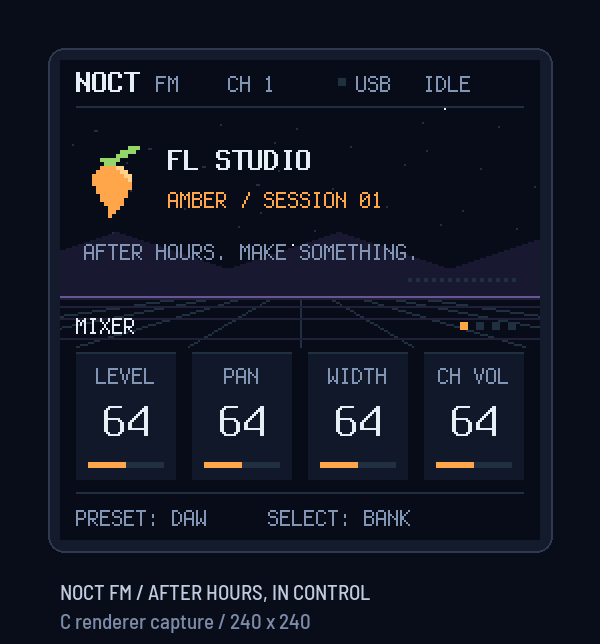
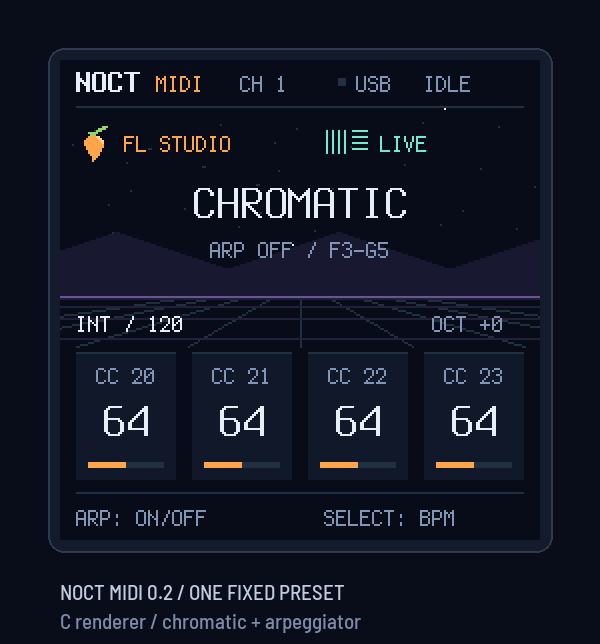
Document NOCT MIDI 0.2 controls and update installer preview

diff --git a/site/index.html b/site/index.html
@@ -13,12 +13,12 @@
   <header><a class="brand" href="./">NOCT<span>FM</span></a><span class="eyebrow">AFTER HOURS / IN CONTROL</span><a href="https://github.com/Joolo09/noct-fm">GitHub ↗</a></header>
   <main>
     <section class="intro">
-      <div><p class="eyebrow accent">M-VAVE FM-1 / CUSTOM FIRMWARE</p><h1>Твоя музыка.<br>Ночная смена.</h1><p class="lead">FL Studio и Ableton Live.<br>Пиксельный мир на твоём FM-1.</p><div class="chips"><span>● FL STUDIO</span><span>▥ ABLETON LIVE</span></div><p class="muted">Установка по USB из Chrome или Edge на компьютере.<br>Без отдельной программы-загрузчика.</p></div>
+      <div><p class="eyebrow accent">M-VAVE FM-1 / MIDI 0.2.0</p><h1>Твоя музыка.<br>Ночная смена.</h1><p class="lead">Один MIDI-пресет.<br>FL Studio и Ableton Live.</p><div class="chips"><span>● FL STUDIO</span><span>▥ ABLETON LIVE</span></div><p class="muted">Четыре постоянных CC. Хроматическая клавиатура.<br>Арпеджиатор с собственным темпом.</p></div>
       <figure><img src="./noct-fm.gif" width="600" height="644" alt="Пиксельный интерфейс NOCT FM: янтарный FL Studio и мятный Ableton Live"><figcaption>240 × 240 / REAL FIRMWARE RENDER</figcaption></figure>
     </section>
     <section class="installer" aria-labelledby="install-title">
       <div class="section-head"><div><p class="eyebrow accent">CONNECT / VERIFY / INSTALL</p><h2 id="install-title">На орбиту — по USB.</h2></div><span class="badge">EXPERIMENTAL ALPHA</span></div>
-      <p class="notice">Сборка ещё не проверена на физическом FM-1. Сохрани свои пресеты и подготовь официальный M-UPGRADE для восстановления. Во время записи не отключай USB. Первая установка заменяет штатную прошивку.</p>
+      <p class="notice">В 0.2.0 убраны USER-банки, смена MIDI-канала ручками и автосохранение во flash. После обновления скачай и переустанови DAW-скрипты ниже: единая карта теперь CC20–23. Обновление проверено в симуляторе, аппаратная проверка ещё предстоит. Сохрани данные; во время записи не отключай USB.</p>
       <p id="compatibility" class="muted"></p>
       <div class="steps">
         <article><span class="number">01</span><h3>Подключи FM-1</h3><p>USB-кабель с передачей данных. Закрой FL Studio, Live и другие приложения, использующие MIDI-порт.</p><button id="connect">Подключить по USB</button><label for="ports" class="small">MIDI-порт</label><select id="ports" disabled><option>Сначала подключи устройство</option></select><p id="device" class="small">Устройство не подключено</p></article>
@@ -27,7 +27,7 @@
       </div>
       <div class="status-panel"><div class="status-line"><p id="status" role="status" aria-live="polite">Готов к подключению.</p><span id="percent">0%</span></div><progress id="progress" max="100" value="0" aria-label="Ход установки"></progress><p id="error" role="alert"></p><details><summary>Журнал установки</summary><pre id="log">NOCT FM installer ready.</pre><button id="save-log" class="secondary">Скачать журнал</button></details></div>
     </section>
-    <section class="after"><div><p class="eyebrow accent">AFTER INSTALL</p><h2>Теперь открой свою DAW.</h2><p>PRESETS на главном экране выбирает FL Studio или Ableton. Установи соответствующий скрипт, чтобы ручки управляли параметрами, а экран получал обратную связь.</p><p><a class="text-link" href="./downloads/NOCT-DAW-scripts.zip" download>Скачать скрипты FL Studio и Ableton ↓</a></p><a class="text-link" href="https://github.com/Joolo09/noct-fm#подключение-daw">Инструкция подключения ↗</a></div><div><h3>Нужно вернуться назад?</h3><p>Используй официальный M-UPGRADE и инструкцию восстановления для своей версии FM-1. Этот установщик принимает только сборку NOCT из своего манифеста.</p><a class="text-link" href="https://www.m-vave.com/product?id=fm-1" target="_blank" rel="noopener">Загрузки M-VAVE ↗</a></div></section>
+    <section class="after"><div><p class="eyebrow accent">AFTER INSTALL</p><h2>Теперь открой свою DAW.</h2><p>Один пресет для обеих DAW: ноты на канале 1, ручки CC20–23 на канале 16. Установи свежий скрипт. PRESETS больше не меняет маршрут. ARP включается кнопкой, SELECT задаёт темп. USB audio в MIDI-сборке отключён — проверь выбор MIDI-порта после обновления.</p><p><a class="text-link" href="./downloads/NOCT-DAW-scripts.zip" download>Скачать скрипты FL Studio и Ableton ↓</a></p><a class="text-link" href="https://github.com/Joolo09/noct-fm#подключение-daw">Инструкция подключения ↗</a></div><div><h3>Нужно вернуться назад?</h3><p>Используй официальный M-UPGRADE и инструкцию восстановления для своей версии FM-1. Этот установщик принимает только сборку NOCT из своего манифеста.</p><a class="text-link" href="https://www.m-vave.com/product?id=fm-1" target="_blank" rel="noopener">Загрузки M-VAVE ↗</a></div></section>
   </main>
   <footer><span>NOCT FM / MADE FOR THE AFTER HOURS</span><span>На базе CTL-1, fm1-base и felucca-bsp · <a href="./LICENSE">MPL-2.0</a></span></footer>
   <script type="module" src="./installer.js"></script>

diff --git a/tools/make-midi-preview.py b/tools/make-midi-preview.py
@@ -1,0 +1,32 @@
+"""Capture NOCT 0.2's actual MIDI UI and arp modifier in the host simulator."""
+import os
+import subprocess
+from pathlib import Path
+from PIL import Image,ImageDraw,ImageFont
+root=Path(__file__).resolve().parents[1]
+out=root/'preview';out.mkdir(exist_ok=True)
+exe=root/'firmware/app/build/host'/('noct-usb_host.exe' if os.name=='nt' else 'noct-usb_host')
+commands=['wait 800']
+for i in range(70):
+    if i==10:commands+=['key 7 down']
+    if 12<=i<24:commands+=['spin K1 2','spin K2 -1','spin K3 1']
+    if i==26:commands+=['key 7 up','tap ARP','key 0 down','key 4 down','key 7 down']
+    if i==45:commands+=['key 0 up','key 4 up','key 7 up','press ARP']
+    if i==50:commands+=['spin K2 1','spin K3 1']
+    if i==60:commands+=['release ARP']
+    commands+=['wait 80',f'shot anim-midi-{i:02}.png']
+script=out/'animation-midi.ctl';script.write_text('\n'.join(commands)+'\n')
+subprocess.run([str(exe),str(script),str(out)],check=True)
+frames=[]
+font=ImageFont.truetype(str(root/'upstream/base/assets/fonts/BarlowSemiCondensed-Medium.ttf'),21)
+for i in range(70):
+    canvas=Image.new('RGB',(600,644),'#090c19');draw=ImageDraw.Draw(canvas)
+    draw.rounded_rectangle((48,48,552,552),radius=16,fill='#141b2c',outline='#30394e',width=2)
+    screen=Image.open(out/f'anim-midi-{i:02}.png').convert('RGB')
+    canvas.paste(screen.resize((480,480),Image.Resampling.NEAREST),(60,60))
+    draw.text((60,579),'NOCT MIDI 0.2 / ONE FIXED PRESET',font=font,fill='#c1cbe0')
+    draw.text((60,608),'C renderer / chromatic + arpeggiator',font=font,fill='#7c8ba7')
+    frames.append(canvas)
+frames[0].save(out/'noct-fm.gif',save_all=True,append_images=frames[1:],duration=80,loop=0,optimize=False)
+frames[0].save(root/'site/still.png')
+(root/'site/noct-fm.gif').write_bytes((out/'noct-fm.gif').read_bytes())

diff --git a/firmware/app/midi_ui.c b/firmware/app/midi_ui.c
@@ -32,7 +32,11 @@ static void play(uint32_t st,uint32_t a,uint32_t b){ctl_send(pkt3(st|proj.chan,a
 static void noct_control(uint32_t a,uint32_t b){ctl_send(pkt3(0xBFu,a,b),TO_USB|TO_BLE);}
 static void say(const char *a,const char *b)
 {
-    char *p=put_s(ui.message,a);if(b){p=put_s(p," ");put_s(p,b);}
+    uint32_t n=0;
+    while(a && *a && n<sizeof ui.message-1u)ui.message[n++]=*a++;
+    if(b && n<sizeof ui.message-1u)ui.message[n++]=' ';
+    while(b && *b && n<sizeof ui.message-1u)ui.message[n++]=*b++;
+    ui.message[n]=0;
     ui.msg_until=plat_ms()+1500u;
     if(ann_on())ann_say(ui.message,0,ANN_NOW);
 }
@@ -123,7 +127,7 @@ static void save_if_idle(void)
 {
     if(ui.save_done||!(ui.btn>>B_SAVE&1u)||plat_ms()-ui.save_t<1000u)return;
     ui.save_done=1;
-    if(ui.down||ui.playing||arp_engine.count||ui.sustain){say("RELEASE KEYS", "STOP BEFORE SAVE");return;}
+    if(ui.down||ui.playing||arp_engine.count||ui.sustain||plat_ms()<ui.touch_until){say("RELEASE KEYS", "STOP BEFORE SAVE");return;}
     if(project_save()==0){ui.dirty=0;ui.saves++;say("SETTINGS SAVED",0);}
     else say("FLASH SAVE FAILED",0);
 }

diff --git a/README.md b/README.md
@@ -1,113 +1,98 @@
-# NOCT FM
+# NOCT MIDI 0.2.0
 
-**AFTER HOURS / IN CONTROL** — MIDI-прошивка для **M-VAVE FM-1**, с приоритетом FL Studio и Ableton Live.
+**AFTER HOURS / IN CONTROL** — MIDI-контроллер для **M-VAVE FM-1** с одним постоянным пресетом для FL Studio и Ableton Live.
 
-**[Веб-установщик → joolo09.github.io/noct-fm](https://joolo09.github.io/noct-fm/)** — подключение по USB из Chrome/Edge, загрузка сборки, проверка SHA-256 и запись через Web MIDI SysEx. Скрипты DAW можно скачать там же.
+**[Веб-установщик → joolo09.github.io/noct-fm](https://joolo09.github.io/noct-fm/)**
 
-Ночная палитра, настоящий пиксельный шрифт Terminus, звёзды, движущаяся сетка горизонта и пиксельные логотипы DAW. FL Studio — янтарный; Ableton Live — мятный. PRESETS меняет профиль и запускает короткую анимацию. Экран рисуется C-кодом на родном разрешении 240×240, без загрузки картинок и выделения памяти в анимации.
+![Интерфейс настоящего C-рендерера](preview/noct-fm.gif)
 
-![Анимация настоящего C-рендерера](preview/noct-fm.gif)
+## Что изменилось в 0.2
 
-## Текущее состояние
+Предыдущая версия позволяла ручками менять канал клавиатуры, DAW-профиль, банк, номера CC и назначение клавиш. Это могло выглядеть как прекращение работы MIDI. Арпеджиатор по умолчанию ждал внешний clock. Движения ручек также приводили к автосохранению во flash, при котором платформа приостанавливает обработку.
 
-Это **инженерная alpha**. **USB-сборка `.fwsc` успешно собрана в GitHub Actions** специализированным компилятором JieLi. Пакет — 610108 байт, identity `FM-1_9062500`; образ приложения 374756 байт, RAM 30276/98304, pool 167972/344064. Сборочные проверки размера памяти, регистров и загрузчика проходят. Bluetooth в опубликованной USB-сборке отсутствует. Проверки на физическом FM-1 и внутри установленных FL Studio / Live не проводились. Симуляция USB/Bluetooth не проверяет реальные USB-дескрипторы, радиостек, задержку и flash-память устройства.
+Теперь доступен **один MIDI-пресет**: ноты всегда на канале 1, ручки CC20–23 на канале 16. USER-банков, смены профиля, Program Change и изменения канала с панели нет. Все клавиши остаются музыкальными при нажатии любой кнопки. Хроматическая раскладка соответствует физическим полутонам F3–G5, без аккордов на чёрных клавишах.
 
-Исходники установщика находятся в `site/`. Сценарий `firmware.yml` собирает пакет; `pages.yml` публикует сайт с последним успешно собранным `.fwsc`. Если сборки нет, установка на сайте заблокирована. Файл с неверным размером, SHA-256 или identity отклоняется до обращения к загрузчику. Подтверждение успеха требует, чтобы FM-1 после перезапуска сообщил ожидаемый identity. Аппаратная проверка всего цикла установки ещё предстоит.
+В 0.2 используются новые `midi_engine.c`, `midi_ui.c`, `midi_screen.c`, `midi_host.c`. Старые `engine.c`, `ui.c`, `noct_ui.c`, `host.c` сохранены как исходный материал, **в приложение не включаются**.
 
-Проверено здесь:
+- Удалены автоматические записи во flash после ручек и DAW feedback. Сохранение — только явным удержанием SAVE в покое.
+- Входящие MIDI-сообщения читаются ограниченной порцией; их непрерывный поток не блокирует клавиши и кнопки. USB feedback не пересылается обратно в USB.
+- Внутренний синтезатор, драм-секвенсор и USB audio не входят в исполняемый MIDI-тракт. PLAY управляет DAW и не запускает барабаны.
+- Арпеджиатор работает от внутреннего темпа по умолчанию, принимает все 27 клавиш, поддерживает пять порядков нот и latch. Отпускание последней клавиши и panic освобождают ноты без ожидания следующего clock.
+- При смене октавы или переключении ARP удержанные клавиши корректно переозвучиваются, Note Off относится к действительно отправленной ноте.
+- При пропадании внешнего clock последняя нота гасится по таймауту.
+- По умолчанию используется надёжное цифровое нажатие с velocity 100, без aftertouch. Аналоговую velocity можно включить отдельно.
 
-- Сборка настоящего C-приложения с Windows-симулятором, в конфигурациях с BLE и без BLE.
-- MIDI ноты и завершение удержанной ноты при смене DAW, управляющие CC, транспорт, приём обратной связи, банки и сохранение выбранной DAW после перезапуска симулятора.
-- 8 тестов DAW-скриптов с подставными API: маршрутизация, обратная связь, фильтрация профиля, отсутствие устройства/посылов и дискретные параметры.
-- Кадры и GIF в `preview/` получены непосредственно из C-рендерера.
+Полное зависание, о котором сообщил пользователь, не воспроизведено на физическом FM-1. Исправлены обнаруженные причины потери маршрутизации и убраны фоновые операции, способные прерывать MIDI; аппаратная проверка обновления необходима.
 
 ## Управление
 
-| Орган FM-1 | Действие |
+| Орган | Действие |
 | --- | --- |
-| HOME | Главный экран NOCT |
-| PRESETS на HOME | Влево — FL Studio, вправо — Ableton Live |
-| SELECT на HOME / короткое FX | Банк четырёх ручек |
-| KNOB 1–4 | Значения текущего банка, абсолютные CC 0–127 |
-| ALGORITHM | Канал клавиатуры 1–15; 16 отведён управлению DAW |
-| MASTER | Громкость master в DAW; отправка начинается после движения, не при загрузке |
-| PLAY | Пуск / остановка |
-| REC | Переключение записи arrangement / song |
-| FX + REC | Panic: завершить ноты и sustain, не переключая банк |
-| ENV / LFO | Sustain / modulation на канале клавиатуры |
-| OCT− / OCT+ | Октава |
-| SAVE | Сохранить настройки; есть сохранение после простоя |
-| SEL / ARP / SEQ / EDIT / GLO | Лад, арпеджиатор, секвенсор, внутренний звук, настройки |
+| KNOB 1–4 | Всегда CC20–23 на канале 16; номера CC не меняются |
+| MASTER | CC7 на канале 16; отправляет значение только после движения |
+| PRESETS | Один пресет: поворот не меняет режим, канал или программу |
+| SELECT | Темп арпеджиатора 40–240 BPM |
+| ALGORITHM | Порядок нот ARP: Up / Down / Up-down / Random / As played |
+| ARP, коротко | Включить/выключить ARP; при удержанных клавишах ноты переозвучиваются |
+| Удерживать ARP + KNOB 1 | Скорость 1/4, 1/8, 1/8T, 1/16, 1/16T, 1/32 |
+| Удерживать ARP + KNOB 2 | Порядок нот |
+| Удерживать ARP + KNOB 3 | Диапазон 1–3 октавы |
+| Удерживать ARP + KNOB 4 | Темп |
+| FX | Latch арпеджиатора |
+| FX + REC | Panic: завершить ноты, latch-последовательность и sustain |
+| PLAY / REC | Пуск-стоп / запись в DAW |
+| ENV | Sustain, пока удерживается |
+| LFO | Modulation CC1, плавно вверх/вниз |
+| OCT− / OCT+ | Транспозиция −3…+3 октавы |
+| GLO удерживать + PLAY | Внутренний / внешний MIDI clock; текущий режим виден на экране |
+| GLO удерживать + ENV | Фиксированная / измеренная velocity |
+| SAVE удерживать 1 секунду | Сохранить настройки, когда нет нот, latch, sustain, playback и недавнего движения ручек |
+| HOME / SEL / SEQ / EDIT / GLO | Информация об одном MIDI-пресете; клавиши не становятся редактором шагов |
 
-PRESETS на остальных страницах сохраняет исходную функцию Program Change. Внутренний звук по умолчанию выключен. Чувствительность к нажатию и channel aftertouch включены; их можно настроить в GLO → Touch. Для арпеджиатора/секвенсора по умолчанию нужен внешний MIDI Clock от DAW; иначе выбери внутренний clock в GLO.
-
-При переключении DAW текущие ноты отпускаются, локальный транспорт останавливается, банк сбрасывается на A, фиксированная карта ручек выбранной DAW восстанавливается. Значения ручек обновляются из DAW при доступной обратной связи. Сохраняется текущий профиль, а не две независимые пользовательские карты.
-
-## Что управляется
-
-Все команды DAW — **MIDI channel 16**, статус `BF`. Ноты идут на выбранном канале, изначально 1.
-
-| Банк | FL Studio | Ableton Live |
-| --- | --- | --- |
-| A | CC20–23: volume/pan/stereo separation выбранного mixer track, volume выбранного channel | CC40–43: volume/pan/send A/send B выбранного track |
-| B | CC24–27: четыре пользовательские связи через Link to controller | CC44–47: первые четыре параметра выбранного device после Device On; в Rack это macros 1–4 |
-| C | CC28–31: пользовательские связи для посылов | CC48–51: следующие четыре параметра; в Rack это macros 5–8 |
-| D | CC32–35: пользовательские связи | CC52–55: пользовательские связи через MIDI Map |
-
-FL Studio не предоставляет универсальной карты макросов для всех плагинов. Банки B/C/D оставлены для ручного назначения, подписи обозначают предложенное назначение. Их значения на FM-1 локальные: скрипт не читает произвольные связи FL. В Live банки B/C управляют параметрами выбранного устройства; для предсказуемых подписей используй Rack с восемью macros. При отсутствии параметра/посыла он пропускается.
-
-CC7 — master, CC110 — play, CC111 — stop, CC112 — record, CC119 — выбор профиля (0 FL, 1 Live). Обратная связь: CC116 — playing, CC117 — recording, CC ручек — их значения. Feedback не отправляется повторно при неизменном значении. Не назначай служебные CC вручную. FX удержанием позволяет редактировать номера CC; изменение фиксированных номеров нарушает автоматическое соответствие скрипту до восстановления профиля.
+Если ARP удерживался для изменения параметров, его отпускание не переключает ARP. При `EXT` включи MIDI clock от DAW; при `INT` арпеджиатор работает без синхронизации. По умолчанию 120 BPM, 1/16, Up, одна октава.
 
 ## Подключение DAW
 
-**FL Studio:** скопируй папку `integrations/FL Studio/NOCT` в папку пользовательских MIDI-скриптов FL Studio (`Settings/Hardware/NOCT` внутри User data folder). Перезапусти FL, включи вход `NOCT FM-1` и выбери Controller type → NOCT FM. Входу и выходу назначь один Port number для обратной связи. На FM-1 выбери FL Studio. Для банков B/C/D используй Link to controller. Движение параметров FL обновляет банк A на экране.
+**Обязательно переустанови скрипты после обновления с 0.1:** старый Ableton-скрипт ждал CC40–43, новый использует CC20–23. Свежий архив доступен на сайте. USB audio удалён из конфигурации устройства: после переподключения проверь выбор MIDI-порта в DAW.
 
-**Ableton Live 11/12:** скопируй папку `integrations/Ableton Live/NOCT` в `Remote Scripts/NOCT` внутри User Library. Перезапусти Live, в MIDI Settings выбери Control Surface → NOCT, Input/Output → NOCT FM-1. Включи Track для нот; Remote — для ручных назначений банка D. На FM-1 выбери Ableton Live. Для macro banks выбери Rack в Live. REC управляет общей записью, не Session Record. Live 10 / Python 2 не поддерживается.
+**FL Studio:** папку `integrations/FL Studio/NOCT` помести в `Settings/Hardware/NOCT` внутри User data folder. Перезапусти FL, включи вход NOCT FM-1, выбери Controller type → NOCT FM. Назначь входу и выходу один Port number для feedback.
 
-Название порта реального устройства задано в конфигурации, но ещё не проверено на железе. Подключай порт к одной DAW за раз. Скрипты не определяют активную DAW автоматически: выбери соответствующий профиль на FM-1 после подключения. Соединение по USB — основной путь проверки; BLE реализован базой и требует отдельной проверки на железе.
+**Ableton Live 11/12:** папку `integrations/Ableton Live/NOCT` помести в `Remote Scripts/NOCT` внутри User Library. Перезапусти Live, выбери Control Surface → NOCT, Input/Output → NOCT FM-1. Включи Track для нот. Подключай порт к одной DAW за раз.
 
-Документация производителей: [FL MIDI scripting](https://www.image-line.com/fl-studio-learning-content/fl-studio-online-manual/html/midi_scripting.htm), [установка Remote Scripts Live](https://help.ableton.com/hc/en-us/articles/209072009-Installing-third-party-remote-scripts).
+| Ручка | FL Studio | Ableton Live |
+| --- | --- | --- |
+| KNOB 1 / CC20 | Громкость выбранного mixer track | Громкость выбранной track |
+| KNOB 2 / CC21 | Панорама выбранного mixer track | Панорама выбранной track |
+| KNOB 3 / CC22 | Stereo separation выбранного mixer track | Send A |
+| KNOB 4 / CC23 | Громкость выбранного channel | Send B |
 
-## Симулятор и тесты на Windows
+CC7 — master; CC110 — play; CC111 — stop; CC112 — record; CC119 value 2 — единый MIDI-пресет. Все перечисленные CC идут на канале 16. Ноты, sustain и modulation идут на канале 1. Feedback CC116/117 показывает состояние playback/recording; CC20–23 обновляют значения ручек без повторной отправки и сохранения во flash. REC — общая запись DAW, не Session Record. Для произвольной автоматизации можно использовать ручное назначение MIDI согласно документации своей DAW; аппаратная проверка записи автоматизации ещё предстоит.
 
-После сборки на Windows появляется `firmware/app/build/host/noct_host.exe`. Симулятор исполняет сценарии, не подключается к MIDI-порту компьютера и не прошивает устройство. Готовый `.exe` не хранится в Git.
+## Установка и проверки
 
-```powershell
-.\firmware\app\build\host\noct_host.exe tests\noct.ctl preview
-python tests/test_integrations.py
-python tools/make-preview.py
-```
+Сайт работает через HTTPS и Web MIDI SysEx в Chrome/Edge на компьютере. Проверяются размер, SHA-256, модель и identity пакета; успешная установка подтверждается identity устройства после перезапуска. Устройство не прошивается автоматически при открытии страницы. Если пакет отсутствует или не прошёл проверку, запись заблокирована.
 
-Для повторной сборки нужен Python 3.11+ с Pillow и Zig 0.13.0, распакованный в `tools/zig-windows-x86_64-0.13.0`. `tools/build-host.ps1` использует bundled Python Codex, если он доступен, иначе Python из PATH. Затем:
+Сборка 0.2.0 имеет отдельный identity `FM-1_90625000200`, чтобы установщик мог отличить её от 0.1. Старые настройки формата 2 мигрируют на фиксированный канал/CC/хроматику и внутренний clock. USB MIDI — основной режим, Bluetooth и USB audio в этой сборке отсутствуют. Это экспериментальная прошивка; перед установкой сохрани данные и подготовь официальную процедуру восстановления M-VAVE.
 
-```powershell
-.\tools\build-host.ps1
-.\tools\build-host.ps1 -NoBle
-```
-
-## Сборка для устройства
-
-На **Linux x86-64** нужны Python 3.11+, Pillow, git, curl, xz, JieLi Linux toolchain и AC79 SDK. Исходники base/bsp уже находятся в `upstream/`, повторное обновление submodules для исходного архива не нужно.
+Проверки включают все 27 клавиш, 7 октав (189 нот с парными Note Off), одновременные повороты энкодеров и игру, входящий feedback, отсутствие автосохранений, внутренний и внешний ARP, порядок нот, latch, потерю clock, перенос удержанных нот, миграцию и 10 тестов DAW-скриптов с подставными API. Реальная DAW, USB и flash на железе этими тестами не заменяются.
 
 ```sh
-python3 -m pip install Pillow
-sh upstream/base/tools/get_toolchain.sh
-git clone --depth 1 --branch AC79NN_SDK_V1.2.1_2023-12-13 \
-  https://gitee.com/Jieli-Tech/fw-AC79_AIoT_SDK.git "$HOME/fw-AC79_AIoT_SDK"
-sh build.sh --no-ble
-# Ожидаемый результат: firmware/app/build/noct-usb.fwsc
-sh build.sh
-# Ожидаемый результат: firmware/app/build/noct.fwsc, с BLE
+python tests/test_integrations.py
+sh build.sh --host --no-ble
+mkdir -p test-output
+firmware/app/build/host/noct-usb_host tests/noct.ctl test-output
+python tests/test_midi_engine.py
+node tests/installer.test.mjs
 ```
 
-USB-сборка этими командами проверена в Linux GitHub Actions. BLE-сборка устройства ещё не проверена. База проверяет размеры flash/RAM, доступ к регистрам и упаковку загрузчика. Development identity `FM-1_9062500` экспериментальная; уникальность идентификатора с каталогами сторонних прошивок не согласована. Файл симулятора `.exe` не является прошивкой.
+Windows: Python 3.11+ и Pillow, Zig 0.13.0 в `tools/zig-windows-x86_64-0.13.0`; `tools/build-host.ps1 -NoBle`. Симулятор не подключается к физическому MIDI и не прошивает устройство.
 
-Перед установкой требуется собрать `.fwsc`, сохранить свои данные и проверить процедуру восстановления для текущей штатной версии FM-1. NOCT использует формат и адреса хранения базы CTL-1, не умеет импортировать штатные проекты FM-1. Установка на устройство в этой работе не выполнялась. Инструменты установки и исходные сведения о восстановлении: `upstream/BUILDING.md` и `upstream/base/tools/fm1_install.py`.
+Для устройства нужен Linux x86-64, JieLi pi32v2 toolchain и AC79 SDK; конфигурация сборки — `.github/workflows/firmware.yml`. Команда: `sh build.sh --no-ble --release 0.2.0`. Результат `firmware/app/build/noct-usb-0.2.0.fwsc`. Сценарий Pages использует последнюю успешную сборку с манифестом SHA-256. Исходники сайта — `site/`.
 
 ## Основа и лицензии
 
-NOCT — модификация [CTL-1](https://github.com/charlesvestal/fm1-ctl), commit `e181b4a1ac1510ce18ebf6e271a143c2fe364ccd`; base `b16c177a9086be955cd3e418383f2fd92c6d658b`; felucca-bsp `b4bb32ee0729595b7a30fbf239721286444eceb0`.
+На основе [CTL-1](https://github.com/charlesvestal/fm1-ctl) `e181b4a1ac1510ce18ebf6e271a143c2fe364ccd`, fm1-base `b16c177a9086be955cd3e418383f2fd92c6d658b`, felucca-bsp `b4bb32ee0729595b7a30fbf239721286444eceb0`.
 
-MPL-2.0 для приложения, интеграций и модификаций. Авторские заголовки сохранены; полный текст и лицензии зависимостей находятся в `upstream/LICENSE`, `upstream/LICENSING.md`, `upstream/LICENSES` и дереве `upstream/base/`. Sonivox EAS — Apache-2.0; шрифт Terminus — SIL OFL. В base изменены только Windows-совместимость таймера host и расширение `.exe` в host builder. Радио, USB и update loader сохранены от базы.
+Код приложения, модификаций и интеграций — MPL-2.0; авторские заголовки сохранены. Лицензии платформы и сохранённых исходных материалов находятся в `LICENSE`, `upstream/LICENSING.md`, `upstream/LICENSES` и `upstream/base/`. Шрифт Terminus — SIL OFL. Sonivox EAS (Apache-2.0) сохранён в исходном дереве, но не линкуется в MIDI-сборку 0.2.
 
-Пиксельные интерпретации логотипов нужны для распознавания профиля; названия и товарные знаки принадлежат их владельцам. Проект независим от M-VAVE, Image-Line и Ableton.
+Проект независим от M-VAVE, Image-Line и Ableton. Логотипы обозначают совместимые DAW. Development identity экспериментальная и с внешними каталогами не согласована.
